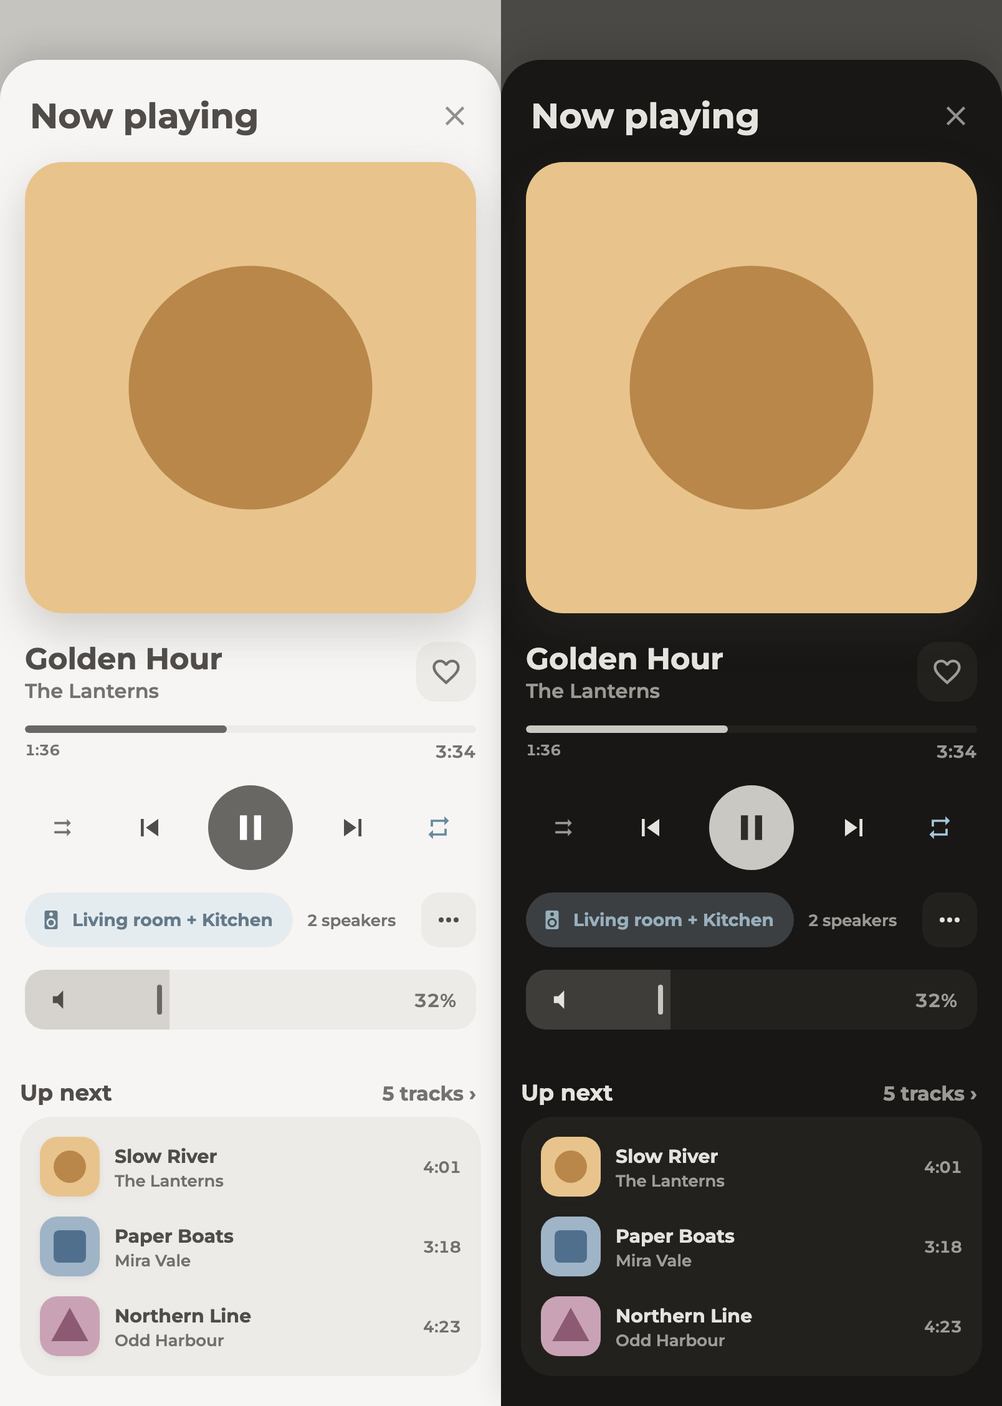
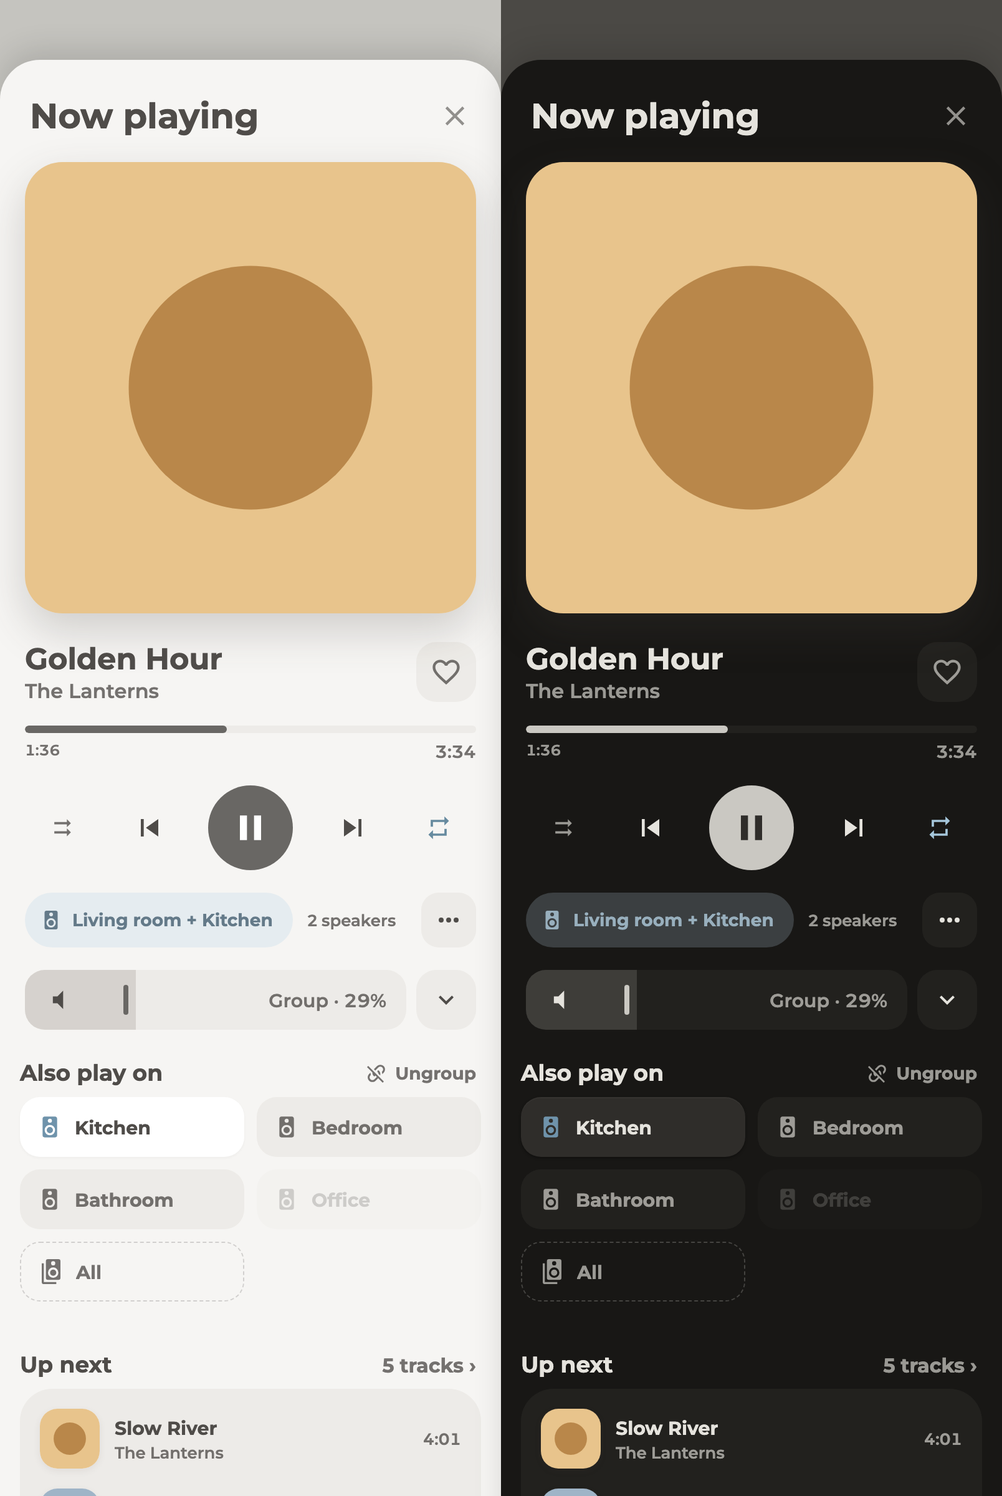
Group volume, volume presets and also play on
In the now playing pop-up, the volume of a group moves every speaker by
the same step, and an arrow shows presets and a slider for each speaker.
The group layout adds a speaker to the group of the chosen one, takes it
out, adds them all or splits the group.

diff --git a/origami-music.js b/origami-music.js
@@ -2,7 +2,7 @@
  * Origami Music: Music Assistant cards for Home Assistant in the Origami style. See the README for the options.
  *
  * type: custom:origami-music
- * layout: app                                 # banner, shelf, player, speakers, queue, library, app, nowplaying, or none for the tabbed card
+ * layout: app                                 # banner, shelf, player, speakers, queue, library, app, nowplaying, group, or none (tabs)
  * select: input_select.speaker                # follows the speaker chosen in an input_select
  * players:                                    # chosen speaker -> Music Assistant player
  *   media_player.living_room_cast: media_player.living_room
@@ -144,6 +144,8 @@ const ORIGAMI_MUSIC_TEXT = {
     added: "Ajouts récents", sortRecent: "Récents", sortAZ: "De A à Z", playAll: "Tout lire", openMA: "Ouvrir Music Assistant",
     like: "Ajouté à tes favoris", unlike: "Retiré de tes favoris", notFound: "Introuvable pour l'instant : ", looking: "Recherche de ",
     speakersN: " enceintes", inplay: "Lecture en cours", forget: "Effacer ", wait: "Patiente un instant…",
+    group: "Groupe", volumes: "Volume de chaque enceinte", quiet: "Doux", medium: "Moyen", loud: "Fort",
+    alsoOn: "Écouter aussi sur", ungroup: "Dégrouper", allSpeakers: "Toutes",
   },
   en: {
     none: "No queue", empty: "Queue empty", load: "Loading…", one: " item up next", many: " items up next",
@@ -167,6 +169,8 @@ const ORIGAMI_MUSIC_TEXT = {
     added: "Recently added", sortRecent: "Recent", sortAZ: "A to Z", playAll: "Play all", openMA: "Open Music Assistant",
     like: "Added to your favorites", unlike: "Removed from your favorites", notFound: "Not found for now: ", looking: "Looking for ",
     speakersN: " speakers", inplay: "Now playing", forget: "Remove ", wait: "One moment…",
+    group: "Group", volumes: "Volume of each speaker", quiet: "Quiet", medium: "Medium", loud: "Loud",
+    alsoOn: "Also play on", ungroup: "Ungroup", allSpeakers: "All",
   },
 };
 
@@ -242,6 +246,7 @@ class OrigamiMusic extends OrigamiBase {
     this._ctx = { chosen, ma, st, qid, cur };
     if (cfg.layout === "app") { this._renderApp(); return; }
     if (cfg.layout === "nowplaying") { this._renderNowPlaying(); return; }
+    if (cfg.layout === "group") { this._renderGroup(); return; }
     if (cfg.layout === "banner") { this._fetchRecent(); this._renderBanner(); return; }
     if (cfg.layout === "shelf") { this._fetchRecent(); this._renderShelf(); return; }
     if (cfg.layout === "player") { this._renderPlayer(); return; }
@@ -736,7 +741,8 @@ class OrigamiMusic extends OrigamiBase {
     rp.classList.toggle("on", a.repeat === "one" || a.repeat === "all");
     card.classList.toggle("dead", !st || ["unavailable", "unknown"].includes(st.state));
     this._setIcon(card.querySelector(".vic"), (a.volume_level ?? 0) < 0.34 ? "mdi:volume-low" : (a.volume_level ?? 0) < 0.67 ? "mdi:volume-medium" : "mdi:volume-high");
-    if (!this._dragVol && this._volLocal == null) this._paintVol(card, a.volume_level ?? 0);
+    const vol = card.querySelector(".vol");
+    if (!vol._drag && vol._local == null) this._paintVol(vol, a.volume_level ?? 0);
     this._tick();
     // The progress moves on its own while playing, and stops once the card is no longer on the page
     if (st?.state === "playing") { if (!this._tickT) this._tickT = setInterval(() => this._tick(), 1000); }
@@ -757,30 +763,31 @@ class OrigamiMusic extends OrigamiBase {
     card.querySelector(".dur").textContent = formatDuration(dur);
   }
 
-  _paintVol(card, v) {
+  _paintVol(vol, v) {
     const pct = Math.round(Math.max(0, Math.min(1, v)) * 100);
-    card.querySelector(".vfill").style.width = pct + "%";
-    card.querySelector(".vknob").style.left = pct + "%";
-    card.querySelector(".vpct").textContent = this._pct(pct / 100);
+    vol.querySelector(".vfill").style.width = pct + "%";
+    vol.querySelector(".vknob").style.left = pct + "%";
+    vol.querySelector(".vpct").textContent = (vol._label ? vol._label + " · " : "") + this._pct(pct / 100);
   }
 
   // The gauge follows the finger at once, the volume is set 150 ms after the last move
-  _wireVolume(vol) {
-    const card = vol.closest("ha-card");
+  // apply gets the new level; without it, the level goes to the followed player
+  _wireVolume(vol, apply) {
     const set = (ev) => {
       const r = vol.getBoundingClientRect();
       const v = Math.max(0, Math.min(1, (ev.clientX - r.left) / r.width));
-      this._volLocal = v;
-      this._paintVol(card, v);
-      clearTimeout(this._volT);
-      this._volT = setTimeout(() => {
+      vol._local = v;
+      this._paintVol(vol, v);
+      clearTimeout(vol._timer);
+      vol._timer = setTimeout(() => {
         const ma = this._ctx?.ma;
-        if (ma) this._call("media_player.volume_set", { entity_id: ma, volume_level: Math.round(v * 100) / 100 });
+        if (apply) apply(v);
+        else if (ma) this._call("media_player.volume_set", { entity_id: ma, volume_level: Math.round(v * 100) / 100 });
       }, 150);
     };
-    vol.addEventListener("pointerdown", (ev) => { vol.setPointerCapture?.(ev.pointerId); this._dragVol = true; set(ev); });
-    vol.addEventListener("pointermove", (ev) => { if (this._dragVol) set(ev); });
-    const release = () => { this._dragVol = false; clearTimeout(this._volFree); this._volFree = setTimeout(() => { this._volLocal = null; }, 2000); };
+    vol.addEventListener("pointerdown", (ev) => { vol.setPointerCapture?.(ev.pointerId); vol._drag = true; set(ev); });
+    vol.addEventListener("pointermove", (ev) => { if (vol._drag) set(ev); });
+    const release = () => { vol._drag = false; clearTimeout(vol._free); vol._free = setTimeout(() => { vol._local = null; }, 2000); };
     vol.addEventListener("pointerup", release);
     vol.addEventListener("pointercancel", release);
   }
@@ -1128,10 +1135,121 @@ class OrigamiMusic extends OrigamiBase {
     return h;
   }
 
-  _groupNames() {
-    const names = this._names(), { lead, mem } = this._groups(), ma = this._ctx?.ma;
+  _groupPlayers() {
+    const { lead, mem } = this._groups(), ma = this._ctx?.ma;
     const leader = mem[ma] ?? ma;
-    return leader ? [leader, ...(lead[leader] ?? [])].map((x) => names[x] ?? x) : [];
+    return leader ? [leader, ...(lead[leader] ?? [])] : [];
+  }
+
+  _groupNames() {
+    const names = this._names();
+    return this._groupPlayers().map((x) => names[x] ?? x);
+  }
+
+  // The volume of a group moves every speaker by the same step, like the group volume of Music Assistant,
+  // which Home Assistant does not expose. A preset sets every speaker to the same level.
+  _groupVolume(v, same) {
+    const S = this._hass.states, players = this._groupPlayers();
+    const levels = players.map((p) => S[p]?.attributes?.volume_level ?? 0);
+    const step = v - levels.reduce((x, y) => x + y, 0) / (levels.length || 1);
+    players.forEach((p, i) => this._call("media_player.volume_set", { entity_id: p,
+      volume_level: Math.round(Math.max(0, Math.min(1, same ? v : levels[i] + step)) * 100) / 100 }));
+  }
+
+  _paintGroupVolume(card) {
+    const t = this._t(), S = this._hass.states, players = this._groupPlayers(), names = this._names();
+    const levels = players.map((p) => S[p]?.attributes?.volume_level ?? 0);
+    const vol = card.querySelector(".vrow .vol");
+    vol._label = players.length > 1 ? t.group : "";
+    if (!vol._drag && vol._local == null) this._paintVol(vol, levels.reduce((x, y) => x + y, 0) / (levels.length || 1));
+    const more = card.querySelector(".vmore");
+    this._setIcon(more, this._volOpen ? "mdi:chevron-up" : "mdi:chevron-down");
+    more.classList.toggle("open", !!this._volOpen);
+    more.title = t.volumes;
+    const panel = card.querySelector(".vpanel");
+    panel.hidden = !this._volOpen;
+    if (!this._volOpen) return;
+    if (!panel._presets) {
+      panel._presets = true;
+      const presets = this._config.presets ?? [0.15, 0.3, 0.5];
+      panel.querySelector(".presets").replaceChildren(...[t.quiet, t.medium, t.loud].map((label, i) => {
+        const b = this._el("div", "preset", label);
+        b.dataset.preset = String(presets[i]);
+        return b;
+      }));
+    }
+    const rows = panel.querySelector(".mvols");
+    if (rows._sig !== players.join(",")) {
+      rows._sig = players.join(",");
+      rows.replaceChildren(...players.map((p) => {
+        const row = this._el("div", "mvol");
+        row.dataset.p = p;
+        const vol = this._el("div", "vol");
+        vol.innerHTML = '<i class="vfill"></i><i class="vknob"></i><span class="vpct"></span>';
+        this._wireVolume(vol, (v) => this._call("media_player.volume_set", { entity_id: p, volume_level: Math.round(v * 100) / 100 }));
+        row.append(this._el("div", "mname", names[p] ?? p), vol);
+        return row;
+      }));
+    }
+    for (const row of rows.children) {
+      const vol = row.querySelector(".vol");
+      if (!vol._drag && vol._local == null) this._paintVol(vol, S[row.dataset.p]?.attributes?.volume_level ?? 0);
+    }
+  }
+
+  // --- Also play on (layout: group): a tap adds a speaker to the group of the chosen one, or takes it out --------
+
+  _groupState() {
+    const cfg = this._config, S = this._hass.states, names = this._names(), { lead, mem } = this._groups();
+    const leader = mem[this._ctx?.ma] ?? this._ctx?.ma;
+    const solo = new Set(cfg.solo ?? []), alone = (cast, p) => solo.has(p) || solo.has(cast);
+    const leaderAlone = Object.entries(cfg.players ?? {}).some(([cast, p]) => p === leader && alone(cast, p));
+    const members = lead[leader] ?? [];
+    const chips = Object.entries(cfg.players ?? {}).filter(([, p]) => p !== leader).map(([cast, p]) => {
+      const off = ["unavailable", "unknown"].includes(S[p]?.state ?? "unavailable");
+      const on = members.includes(p);
+      return { p, name: names[p] ?? p, on, off, solo: alone(cast, p), na: !on && (off || alone(cast, p) || leaderAlone) };
+    });
+    return { leader, leaderAlone, members, chips, free: chips.filter((c) => !c.on && !c.na).map((c) => c.p) };
+  }
+
+  _renderGroup() {
+    if (!this.shadowRoot || !this._ctx) return;
+    const t = this._t(), g = this._groupState();
+    const sig = "group|" + g.leader + "|" + JSON.stringify(g.chips);
+    if (sig === this._sig) return;
+    this._sig = sig;
+    const card = this._skel("group", '<div class="hd"><span class="ht"></span><span class="hv lien" data-g="split"></span></div>'
+      + '<div class="ggrid"></div><div class="toast"></div>', (ev) => this._groupClick(ev));
+    card.querySelector(".ht").textContent = t.alsoOn;
+    const split = card.querySelector('[data-g="split"]');
+    split.hidden = !g.members.length;
+    split.replaceChildren(this._icon("mdi:link-variant-off"), this._el("span", null, t.ungroup));
+    const chip = (cls, icon, text, data) => {
+      const c = this._el("div", "gchip " + cls);
+      Object.assign(c.dataset, data);
+      c.append(this._icon(icon), this._el("span", null, text));
+      return c;
+    };
+    card.querySelector(".ggrid").replaceChildren(
+      ...g.chips.map((c) => chip((c.on ? "on" : "") + (c.na ? " na" : ""), "mdi:speaker", c.name, { p: c.p })),
+      chip("all" + (g.free.length ? "" : " na"), "mdi:speaker-multiple", t.allSpeakers, { g: "all" }));
+  }
+
+  _groupClick(ev) {
+    const t = this._t(), g = this._groupState(), names = this._names();
+    const action = ev.target.closest("[data-g]")?.dataset.g, p = ev.target.closest(".gchip[data-p]")?.dataset.p;
+    if (!g.leader) return;
+    if (action === "split") { if (g.members.length) this._call("media_player.unjoin", { entity_id: g.members }); return; }
+    if (action === "all") { if (g.free.length) this._call("media_player.join", { entity_id: g.leader, group_members: g.free }); return; }
+    const c = g.chips.find((x) => x.p === p);
+    if (!c) return;
+    if (c.na) {
+      this._toast(c.off ? (names[p] ?? p) + " · " + t.offline : c.solo ? (names[p] ?? p) + t.solo : (names[g.leader] ?? g.leader) + t.sololead);
+      return;
+    }
+    if (c.on) this._call("media_player.unjoin", { entity_id: p });
+    else this._call("media_player.join", { entity_id: g.leader, group_members: [p] });
   }
 
   _renderApp() {
@@ -1548,13 +1666,18 @@ class OrigamiMusic extends OrigamiBase {
       + '<div class="c" data-c="next"></div><div class="c" data-c="repeat"></div></div>'
       + '<div class="devrow"><div class="dev" data-c="dev"><ha-icon icon="mdi:speaker"></ha-icon><span></span></div><span class="devn"></span>'
       + '<div class="more" data-c="more"></div></div>'
-      + '<div class="vol"><i class="vfill"></i><i class="vknob"></i><span class="vic"></span><span class="vpct"></span></div><div class="toast"></div>',
+      + '<div class="vrow"><div class="vol"><i class="vfill"></i><i class="vknob"></i><span class="vic"></span><span class="vpct"></span></div>'
+      + '<div class="vmore" data-c="vmore"></div></div><div class="vpanel" hidden><div class="presets"></div><div class="mvols"></div></div>'
+      + '<div class="toast"></div>',
       (ev) => {
         const h = ev.target.closest('[data-act="fav-toggle"]');
         if (h) { this._favToggle(h.dataset.id); return; }
+        const preset = ev.target.closest("[data-preset]");
+        if (preset) { this._groupVolume(Number(preset.dataset.preset), true); return; }
+        if (ev.target.closest('[data-c="vmore"]')) { this._volOpen = !this._volOpen; this._renderNowPlaying(); return; }
         this._playerClick(ev);
       });
-    if (!card._vol) { card._vol = true; this._wireVolume(card.querySelector(".vol")); }
+    if (!card._vol) { card._vol = true; this._wireVolume(card.querySelector(".vrow .vol"), (v) => this._groupVolume(v)); }
     const group = this._groupNames();
     card.querySelector(".name").textContent = !ma ? t.nosel : known ? (a.media_title || t.playing) : t.idle;
     card.querySelector(".status").textContent = known ? [a.media_artist, a.media_album_name].filter(Boolean)[0] ?? "" : "";
@@ -1577,7 +1700,7 @@ class OrigamiMusic extends OrigamiBase {
     card.classList.toggle("dead", !st || ["unavailable", "unknown"].includes(st.state));
     card.classList.toggle("idle", !live);
     this._setIcon(card.querySelector(".vic"), (a.volume_level ?? 0) < 0.34 ? "mdi:volume-low" : (a.volume_level ?? 0) < 0.67 ? "mdi:volume-medium" : "mdi:volume-high");
-    if (!this._dragVol && this._volLocal == null) this._paintVol(card, a.volume_level ?? 0);
+    this._paintGroupVolume(card);
     this._tick();
     if (st?.state === "playing") { if (!this._tickT) this._tickT = setInterval(() => this._tick(), 1000); }
     else { clearInterval(this._tickT); this._tickT = null; }
@@ -1940,6 +2063,39 @@ const ORIGAMI_MUSIC_CSS = `
   .devn { flex: none; font-size: 13px; font-weight: 600; color: var(--secondary-text-color); }
   .devrow .more { margin-left: auto; width: 44px; height: 44px; border-radius: 14px; }
   ha-card.nowp.dead .ctrls, ha-card.nowp.dead .vol { opacity: var(--opacity-disabled, 0.4); pointer-events: none; }
+  /* Group volume of the now playing pop-up, and the also play on grid (group) */
+  .vrow { display: flex; align-items: center; gap: 8px; }
+  .vrow .vol { flex: 1 1 auto; }
+  .vmore { flex: none; width: 48px; height: 48px; border-radius: 16px; background: var(--fill-subtle, #f1efeb); display: flex;
+    align-items: center; justify-content: center; cursor: pointer; color: var(--primary-text-color); --mdc-icon-size: 24px; }
+  .vmore.open { background: var(--toggle-on, #5e5a54); color: var(--text-color-active, #fff); }
+  .vpanel { display: flex; flex-direction: column; gap: 10px; }
+  .vpanel[hidden] { display: none; }
+  .presets { display: grid; grid-template-columns: repeat(3, minmax(0, 1fr)); gap: 8px; }
+  .preset { height: 42px; border-radius: 14px; background: var(--fill-subtle, #eae8e4); display: flex; align-items: center;
+    justify-content: center; font-size: 14px; font-weight: 700; color: var(--primary-text-color); cursor: pointer; }
+  .preset:active, .gchip:active { transform: scale(0.97); }
+  .mvols { display: flex; flex-direction: column; gap: 8px; }
+  .mvol { display: flex; align-items: center; gap: 12px; }
+  .mname { width: 96px; flex: none; font-size: 14px; font-weight: 700; color: var(--primary-text-color);
+    overflow: hidden; white-space: nowrap; text-overflow: ellipsis; }
+  .mvol .vol { flex: 1 1 auto; height: 38px; border-radius: 13px; }
+  .mvol .vknob { top: 9px; bottom: 9px; }
+  .mvol .vpct { right: 12px; font-size: 13px; }
+  ha-card.group { background: none; box-shadow: none; border: 0; padding: 0; gap: 0; }
+  ha-card.group .hd { padding-top: 8px; }
+  ha-card.group .hv { display: flex; align-items: center; gap: 6px; font-size: 14px; --mdc-icon-size: 18px; }
+  ha-card.group .hv[hidden] { display: none; }
+  .ggrid { display: grid; grid-template-columns: repeat(2, minmax(0, 1fr)); gap: 10px; }
+  .gchip { height: 48px; box-sizing: border-box; padding: 0 14px; border-radius: 16px; display: flex; align-items: center; gap: 10px;
+    background: var(--fill-subtle, #eae8e4); color: var(--secondary-text-color); font-size: 15px; font-weight: 700; cursor: pointer;
+    --mdc-icon-size: 20px; min-width: 0; }
+  .gchip span { overflow: hidden; white-space: nowrap; text-overflow: ellipsis; }
+  .gchip.on { background: var(--ha-card-background, #fff); color: var(--primary-text-color);
+    box-shadow: var(--card-elevation-flat, 0 4px 12px rgba(74, 70, 64, 0.08)); }
+  .gchip.on ha-icon { color: var(--state-media_player-active-color, #6f93ab); }
+  .gchip.na { opacity: var(--opacity-disabled, 0.45); }
+  .gchip.all { background: none; border: 1.5px dashed color-mix(in srgb, var(--primary-text-color, #4a4640) 22%, transparent); }
 `;
 
 if (typeof customElements !== "undefined" && !customElements.get("origami-music")) {

diff --git a/test/origami-music.spec.js b/test/origami-music.spec.js
@@ -305,3 +305,58 @@ test("the music pop-up speaks French with a French Home Assistant", async ({ pag
   await expect(app).toContainText("Tendances du moment");
   await expect(app.locator(".maj")).toHaveText("Mis à jour aujourd'hui");
 });
+
+test("the volume of a group moves every speaker of the group by the same step", async ({ page }) => {
+  await open(page, "fixture=nowplaying");
+  const vol = card(page, "nowp").locator(".vrow .vol");
+  await expect(vol.locator(".vpct")).toContainText("Group · ");
+  const box = await vol.boundingBox();
+  await page.mouse.click(box.x + box.width * 0.6, box.y + box.height / 2);
+  await expect.poll(async () => (await calls(page)).filter((c) => c.service === "volume_set").map((c) => c.data.entity_id).sort())
+    .toEqual(["media_player.kitchen", "media_player.living_room"]);
+  const set = Object.fromEntries((await calls(page)).filter((c) => c.service === "volume_set").map((c) => [c.data.entity_id, c.data.volume_level]));
+  expect(set["media_player.living_room"] - set["media_player.kitchen"]).toBeCloseTo(0.07, 2);
+});
+
+test("the volume panel has presets and a slider for each speaker", async ({ page }) => {
+  await open(page, "fixture=nowplaying");
+  const now = card(page, "nowp");
+  await expect(now.locator(".vpanel")).toBeHidden();
+  await now.locator(".vmore").click();
+  await expect(now.locator(".mvol")).toHaveCount(2);
+  await expect(now.locator(".mvol").first()).toContainText("Living room");
+  await now.locator(".preset", { hasText: "Medium" }).click();
+  const done = await calls(page);
+  for (const entity_id of ["media_player.living_room", "media_player.kitchen"]) {
+    expect(done).toContainEqual(expect.objectContaining({ service: "volume_set", data: { entity_id, volume_level: 0.3 } }));
+  }
+});
+
+test("also play on adds a speaker to the group, takes one out, adds them all or splits the group", async ({ page }) => {
+  await open(page, "fixture=group");
+  const group = card(page, "group");
+  await expect(group.locator(".gchip.on")).toHaveText("Kitchen");
+  await expect(group.locator('.gchip[data-p="media_player.office"]')).toHaveClass(/na/);
+  await group.locator(".gchip", { hasText: "Bedroom" }).click();
+  await group.locator(".gchip", { hasText: "Kitchen" }).click();
+  await group.locator('.gchip[data-g="all"]').click();
+  await group.locator('[data-g="split"]').click();
+  await group.locator(".gchip", { hasText: "Office" }).click();
+  const done = (await calls(page)).filter((c) => ["join", "unjoin"].includes(c.service)).map((c) => [c.service, c.data]);
+  expect(done).toEqual([
+    ["join", { entity_id: "media_player.living_room", group_members: ["media_player.bedroom"] }],
+    ["unjoin", { entity_id: "media_player.kitchen" }],
+    ["join", { entity_id: "media_player.living_room", group_members: ["media_player.bedroom", "media_player.bathroom"] }],
+    ["unjoin", { entity_id: ["media_player.kitchen"] }],
+  ]);
+  await expect(group.locator(".toast")).toHaveText("Office · Offline");
+});
+
+test("a solo speaker is left out of also play on", async ({ page }) => {
+  await open(page, "fixture=group&solo=media_player.bathroom");
+  const group = card(page, "group");
+  await group.locator('.gchip[data-g="all"]').click();
+  expect((await calls(page)).filter((c) => c.service === "join").map((c) => c.data.group_members)).toEqual([["media_player.bedroom"]]);
+  await group.locator(".gchip", { hasText: "Bathroom" }).click();
+  await expect(group.locator(".toast")).toHaveText("Bathroom can't join a group");
+});

diff --git a/test/mock/fixtures.js b/test/mock/fixtures.js
@@ -156,6 +156,7 @@ export async function show(name, params, column) {
   if (name === "nowplaying-popup") {
     const el = sheet(column, "Now playing");
     await mount("origami-music", { ...BASE, layout: "nowplaying", speakers_path: "#speakers" }, hass, el);
+    await mount("origami-music", { ...BASE, layout: "group" }, hass, el);
     return mount("origami-music", { ...BASE, layout: "queue", limit: 3 }, hass, el);
   }
   if (name === "tabs") return add({});

diff --git a/README.md b/README.md
@@ -44,7 +44,8 @@ The banner shows the track that plays on a Music Assistant player, or offers to 
 | `queue` | The tracks after the current one. A tap plays one. |
 | `library` | Search, categories, and the playlists and albums played last. Each result plays now or right after the current track. |
 | `app` | The music pop-up with home, search and library tabs and a mini player. See Music pop-up. |
-| `nowplaying` | The full player: big cover, heart, controls, the speakers of the group and the volume |
+| `nowplaying` | The full player: big cover, heart, controls, the speakers of the group and the volume of the group, which unfolds into presets and a slider for each speaker |
+| `group` | Also play on: a tap adds a speaker to the group of the chosen speaker or takes it out, with All and Ungroup |
 | none | The tabbed card: queue, library and search in one card |
 
 </details>
@@ -131,11 +132,11 @@ The `app` layout puts the music in one pop-up, with the navigation of Spotify:
 | Search | Recent searches on this device, browse tiles, and results that play now or next |
 | Library | Filters, sort, liked songs pinned on top, and playlist, album and artist pages with Play all |
 
-A mini player stays at the bottom. A tap opens `player_path`, the heart likes the track and the button plays or pauses. The `nowplaying` layout is the full player for that pop-up, and its speakers chip opens `speakers_path`.
+A mini player stays at the bottom. A tap opens `player_path`, the heart likes the track and the button plays or pauses. The `nowplaying` layout is the full player for that pop-up, and its speakers chip opens `speakers_path`. In a group, its volume moves every speaker by the same step, as the group volume of Music Assistant does, and the arrow next to it shows Quiet, Medium and Loud presets and a slider for each speaker. The `group` layout goes below it.
 
 <img alt="The music pop-up and the now playing pop-up, in light and dark mode" src="https://raw.githubusercontent.com/BaQs/origami_music/main/images/app.png">
 
-<img alt="The now playing pop-up with the queue, in light and dark mode" src="https://raw.githubusercontent.com/BaQs/origami_music/main/images/now-playing.png">
+<img alt="The now playing pop-up with also play on and the queue, in light and dark mode" src="https://raw.githubusercontent.com/BaQs/origami_music/main/images/now-playing.png">
 
 ```yaml
 type: custom:origami-music
@@ -225,6 +226,7 @@ template:
 | `trends` | | `app`: chart sensors by zone, such as `{ France: sensor.charts_france }`. The keys name the chips. |
 | `player_path`, `speakers_path` | | `app`, `nowplaying`: opened by the mini player and by the speakers chip |
 | `ma_path` | | `app`: a link to Music Assistant at the end of the library |
+| `presets` | `[0.15, 0.3, 0.5]` | `nowplaying`: the volumes of the Quiet, Medium and Loud presets |
 | `config_entry_id` | | The Music Assistant entry, when there is more than one |
 
 </details>
